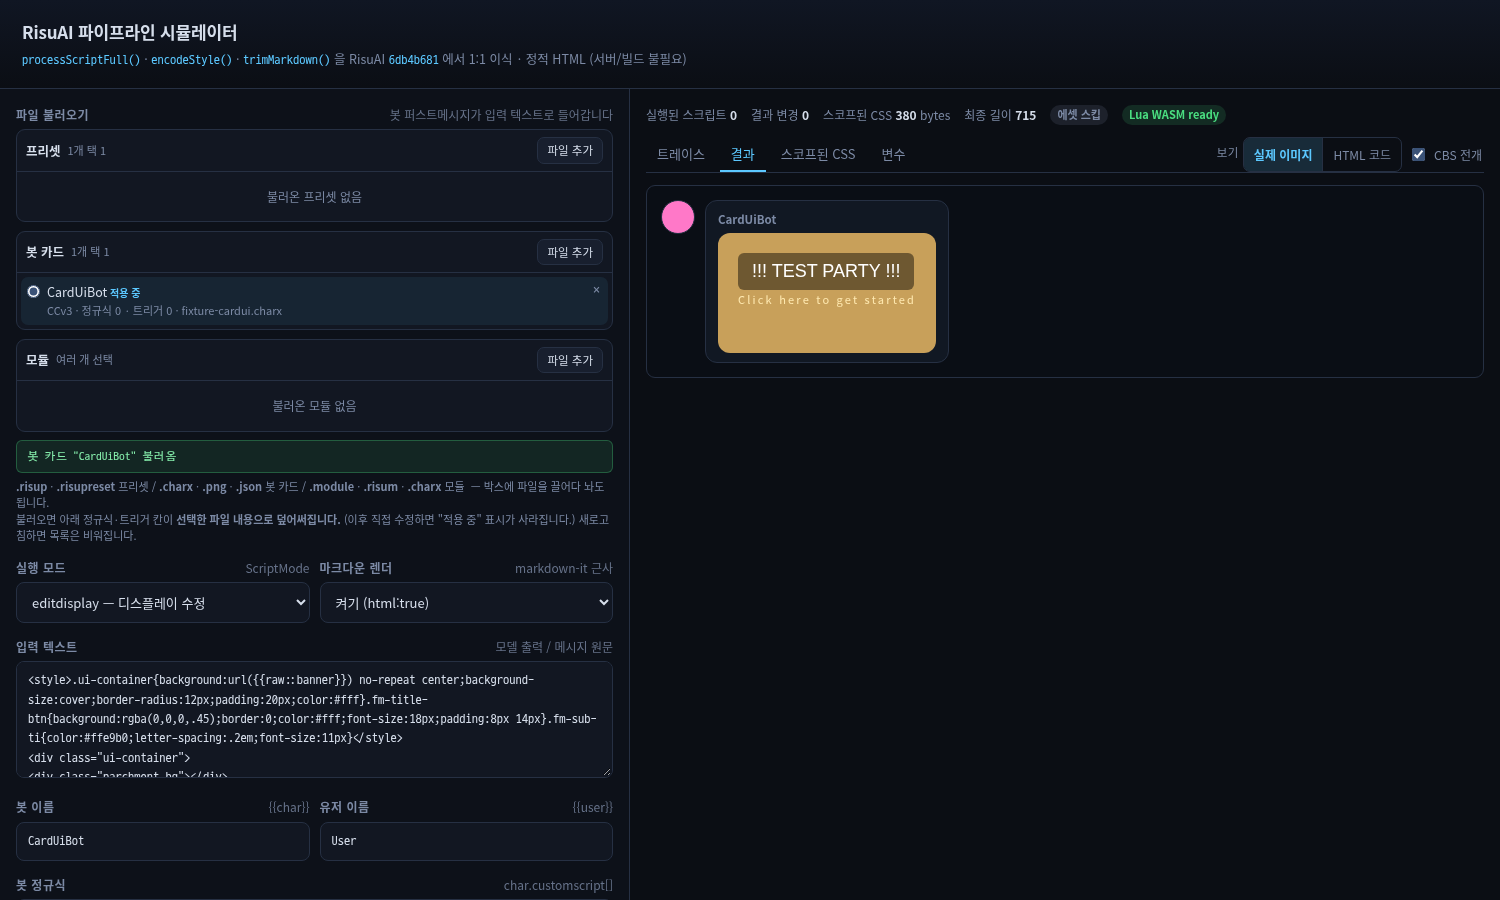
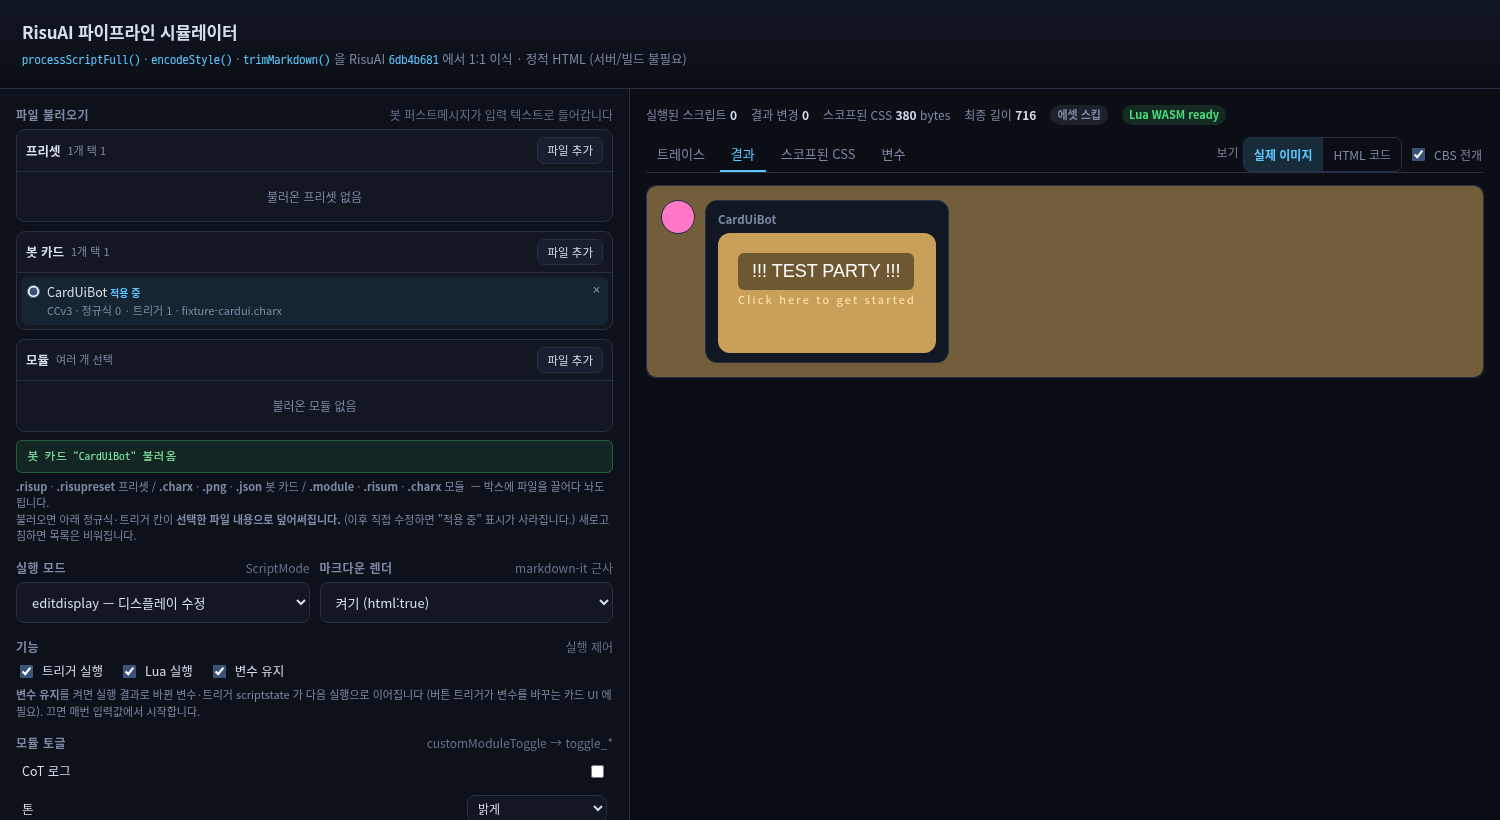
fix: 카드 배경(backgroundHTML) 레이어 렌더 — 이미지/CSS 가 안 보이던 원인
사용자 카드에서 `스코프된 CSS 0 bytes` + 이미지 안 보임. 원인은 카드 UI 봇의
스타일/배경 이미지가 **메시지 안이 아니라** character.backgroundHTML
(모듈은 module.backgroundEmbedding)에 있었기 때문이다.

RisuAI 는 이걸 메시지 뒤 레이어로 렌더링한다 (BackgroundDom.svelte):

    ParseMarkdown(risuChatParser((backgroundHTML||'') + '\n' + moduleBackgroundEmbedding), char, 'back')

## 구현

- importer: 모듈에서 backgroundEmbedding / hideIcon 추출
- index.html: #bgLayer 를 결과 영역 뒤에 두고, 캐릭터 + 체크된 모듈의 배경을 합쳐 렌더
  ('back' 모드 → 마크다운 생략, CSS 스코프·살균·에셋 해석은 수행)
- hideChatIcon / module.hideIcon 이면 아바타 숨김

## 같이 고친 버그

`renderDisplay`/`renderForDisplay` 가 markdown:false 일 때 encodeStyle 을 거치지 않은
원문을 trimMarkdown 에 넘기고 있었다. 그래서 배경(='back' 모드)처럼 마크다운을 건너뛰는
경로에서는 CSS 스코프가 전혀 걸리지 않았다 (`.bgwrap` 그대로 + 클래스만 x-risu- 로 개명).
→ 마크다운을 꺼도 인코딩된 문자열을 넘기도록 수정.

test.js 129 passed, ui-test 103 checks ALL PASS (+3: 배경 레이어/스코프/blob)

diff --git a/risu-sim/index.html b/risu-sim/index.html
@@ -138,8 +138,17 @@
   /* ---- 렌더 프리뷰 ---- */
   #previewWrap {
     border: 1px solid var(--line); border-radius: 9px; background: #0a0e15;
-    padding: 14px; overflow: auto;
+    padding: 14px; overflow: auto; position: relative;
   }
+  /* 카드 배경(backgroundHTML / module.backgroundEmbedding) —
+     RisuAI BackgroundDom.svelte 처럼 메시지 뒤 레이어로 깔린다 */
+  #bgLayer {
+    position: absolute; inset: 0; overflow: hidden;
+    border-radius: 9px; pointer-events: none;
+  }
+  #bgLayer:empty { display: none; }
+  #bgLayer img { max-width: 100%; }
+  .chatlog { position: relative; z-index: 1; }
   /* 카드 CSS 는 .chattext 하위로만 적용된다 (RisuAI 와 동일) */
   .chattext { color: var(--text); font-size: 14px; line-height: 1.7; }
 
@@ -562,6 +571,7 @@
     <div class="pane active" id="pane-trace"></div>
     <div class="pane" id="pane-preview">
       <div id="previewWrap">
+        <div id="bgLayer" class="chattext"></div>
         <div class="chatlog">
           <div class="chatrow" id="chatRow">
             <div class="avatar" id="chatAvatar">R</div>
@@ -1132,6 +1142,42 @@
     host.innerHTML = html;
   }
 
+  // 카드 배경: character.backgroundHTML + 모듈 backgroundEmbedding
+  //   RisuAI BackgroundDom.svelte: ParseMarkdown(risuChatParser(bg + '\n' + moduleBg), char, 'back')
+  //   'back' 모드라 마크다운은 건너뛰고 CSS 스코프/살균만 한다.
+  function renderBackground() {
+    var layer = $('bgLayer');
+    var parts = [];
+    var ch = findEntry('character', selected.character);
+    if (ch && ch.character && ch.character.backgroundHTML) parts.push(ch.character.backgroundHTML);
+    store.module.forEach(function (m) {
+      if (moduleChecked[m.id] && m.backgroundEmbedding) parts.push(m.backgroundEmbedding);
+    });
+    if (!parts.length) {
+      layer.innerHTML = '';
+      return;
+    }
+    var cfg = {
+      markdown: false,
+      expandCbs: true,
+      scope: '.chattext',
+      assets: (readAssetConfig() || {}).assetNames || [],
+      srcOf: assetSrcOf,
+      charName: $('charName').value,
+      userName: $('userName').value,
+      vars: live.vars,
+      globalVars: live.globalVars,
+      prevMessage: $('prevMessage').value
+    };
+    try {
+      var r = window.RisuSim.renderDisplay(parts.join('\n'), cfg);
+      layer.innerHTML = r.html;
+    } catch (e) {
+      layer.innerHTML = '';
+      console.error(e);
+    }
+  }
+
   function renderPreview(result) {
     var host = $('preview');
 
@@ -1139,6 +1185,8 @@
     var isUser = $('mode').value === 'editinput';
     var who = isUser ? ($('userName').value || 'User') : ($('charName').value || 'Char');
     $('chatRow').className = 'chatrow' + (isUser ? ' user' : '');
+    renderBackground();
+
     var av = $('chatAvatar');
     var iconUrl = isUser ? null : assetSrcOf('main');
     if (iconUrl) {
@@ -1150,6 +1198,15 @@
       av.style.backgroundImage = '';
       av.textContent = (who.trim().charAt(0) || '?').toUpperCase();
     }
+    // 카드가 아이콘 숨김을 지정하면 아바타를 감춘다 (HideIconStore)
+    var hideIcon = false;
+    var curChar = findEntry('character', selected.character);
+    if (curChar && curChar.character && curChar.character.hideChatIcon) hideIcon = true;
+    store.module.forEach(function (m) {
+      if (moduleChecked[m.id] && m.hideIcon) hideIcon = true;
+    });
+    av.style.display = hideIcon ? 'none' : '';
+
     $('chatName').textContent = who + (isUser ? ' (입력 단계)' : '');
 
     if (result.display.html) {

diff --git a/risu-sim/simulator.js b/risu-sim/simulator.js
@@ -1814,7 +1814,8 @@
         return { encoded: encodedNoDom, markdown: text, html: escapeHtml(text), css: '' };
       }
       var encoded = encodedNoDom;
-      var md = config.markdown === false ? text : renderMarkdown(encoded);
+      // markdown off 여도 encodeStyle 을 거친 문자열을 넘긴다 (안 그러면 CSS 스코프가 없다)
+      var md = config.markdown === false ? encoded : renderMarkdown(encoded);
       var html = trimMarkdown(md, ctx);
       var tpl = document.createElement('template');
       tpl.innerHTML = html;
@@ -1922,7 +1923,8 @@
     }
 
     var encoded = encodeStyle(src);
-    var md = opts.markdown === false ? src : renderMarkdown(encoded);
+    // 'back' 모드(마크다운 생략)에서도 <style> 스코프는 적용되어야 한다
+    var md = opts.markdown === false ? encoded : renderMarkdown(encoded);
 
     if (typeof document === 'undefined') {
       return { html: escapeHtml(src).replace(/\n/g, '<br>'), css: '', encoded: encoded, markdown: md };

diff --git a/risu-sim/tools/ui-test.html b/risu-sim/tools/ui-test.html
@@ -301,6 +301,12 @@
       return !!m && m[1].length > 10;
     })(), ciHtml.slice(0, 300));
 
+    // ---------- 카드 배경 (backgroundHTML) ----------
+    var bg = d.getElementById('bgLayer');
+    ok('배경 레이어에 내용이 있음', bg.innerHTML.length > 10, bg.innerHTML.slice(0, 200));
+    ok('배경 CSS 가 스코프됨', /\.chattext \.x-risu-bgwrap/.test(bg.innerHTML), bg.innerHTML.slice(0, 300));
+    ok('배경 이미지가 실제 blob URL', /url\(blob:/.test(bg.innerHTML), bg.innerHTML.slice(0, 300));
+
     // ---------- 모듈 토글 / 버튼 트리거 / 변수 편집 ----------
     // (카드 UI 봇: toggles=cot(체크박스), tone(select), note(text), 트리거 'open')
     ok('모듈 토글 패널 표시', d.getElementById('toggleField').style.display !== 'none',

diff --git a/risu-sim/tools/make-fixtures.js b/risu-sim/tools/make-fixtures.js
@@ -484,6 +484,9 @@ async function main() {
             }
           ],
           toggles: 'cot=CoT 로그\ntone=톤=select=밝게,어둡게\nnote=메모=text',
+          backgroundHTML:
+            '<style>.bgwrap{position:absolute;inset:0;background:url({{raw::banner}}) center/cover no-repeat;opacity:.55}</style>' +
+            '<div class="bgwrap"></div>',
           defaultVariables: 'view=normal\nclosed=1\nreveal=yes',
           additionalAssets: [['banner', '', 'png']]
         }

diff --git a/risu-sim/importer.js b/risu-sim/importer.js
@@ -1451,6 +1451,8 @@
       lorebook: Array.isArray(module.lorebook) ? module.lorebook : [],
       assets: assetNamesOf(module.assets),
       vars: {},
+      backgroundEmbedding: typeof module.backgroundEmbedding === 'string' ? module.backgroundEmbedding : '',
+      hideIcon: !!module.hideIcon,
       toggles: typeof module.customModuleToggle === 'string' ? module.customModuleToggle : '',
       module: module,
       warnings: warnings

diff --git a/risu-sim/README.md b/risu-sim/README.md
@@ -112,13 +112,13 @@ node risu-sim/tools/make-fixtures.js
 ### 브라우저 UI 테스트
 
 `tools/ui-test.html` 은 `index.html` 을 iframe 으로 띄운 뒤 **실제로 파일을 넣고 버튼을 눌러**
-100개 항목을 확인합니다 (`DataTransfer` 로 file input 에 주입 + 페이지 전역 드롭).
+103개 항목을 확인합니다 (`DataTransfer` 로 file input 에 주입 + 페이지 전역 드롭).
 
 ```bash
 cd risu-sim && python3 -m http.server 8901
 chromium --headless=new --no-sandbox --virtual-time-budget=60000 \
   --dump-dom "http://127.0.0.1:8901/tools/ui-test.html"
-# → <pre id="out">ALL PASS (100 checks)</pre>
+# → <pre id="out">ALL PASS (103 checks)</pre>
 ```
 
 ## 보기 모드 — 실제 이미지 / HTML 코드
@@ -183,6 +183,25 @@ caption / divider             → 라벨 / 구분선
 | **트리거 실행** | `runTrigger` 5곳을 모두 건너뛰고 트레이스에 "사용 안 함" 표시 |
 | **Lua 실행** | `listenEdit` 훅을 실행하지 않음 |
 | **변수 유지** | 매 실행을 입력값에서 시작 (트리거가 바꾼 변수가 이어지지 않음) |
+
+## 카드 배경 (backgroundHTML)
+
+카드 UI 봇의 배경 이미지·CSS는 **메시지 안이 아니라** `character.backgroundHTML` /
+`module.backgroundEmbedding` 에 있습니다. RisuAI는 이걸 메시지 뒤 레이어로 렌더링합니다
+(`BackgroundDom.svelte`).
+
+```svelte
+<ParseMarkdown(risuChatParser((backgroundHTML || '') + '\n' + moduleBackgroundEmbedding), char, 'back') />
+```
+
+시뮬레이터도 캐릭터 + 체크된 모듈의 배경을 합쳐 결과 영역 뒤에 깔아 줍니다.
+
+- `'back'` 모드라 마크다운은 건너뛰고 **CSS 스코프·살균만** 적용합니다
+- `{{raw::x}}` / `{{image::x}}` 같은 에셋 태그도 여기서 해석됩니다
+- `hideChatIcon` / 모듈 `hideIcon` 이 켜져 있으면 아바타를 숨깁니다
+
+> `markdown` 을 꺼도 `<style>` 은 `encodeStyle` 을 거친 상태로 넘겨야 스코프가 걸립니다.
+> (이전에는 마크다운 off 일 때 원문을 그대로 넘겨서 CSS 가 스코프되지 않았습니다)
 
 ## 에셋 이미지
 

diff --git a/README.md b/README.md
@@ -13,6 +13,7 @@ RisuAI 의 **메시지 처리 파이프라인**을 코드 레벨로 분석하고
 - **동적 에셋** — OpenAI 호환 `/embeddings` 로 에셋 이름 유사도 매칭
 - **파일 불러오기** — `.risup` 프리셋 / `.charx` 봇 카드 / `.module` 모듈을 그대로 읽어서 적용
 - **트리거 · 변수 · 토글** — `risu-trigger` 버튼 실행, 변수 편집기, `customModuleToggle` 스위치
+- **카드 배경** — `backgroundHTML` / `module.backgroundEmbedding` 을 메시지 뒤 레이어로
 - **보기 모드 2종** — 결과를 **실제 이미지**(카드 CSS·에셋 적용) 또는 **HTML 코드**(최종 소스)로
 - **After 렌더** — 트레이스의 각 단계 결과도 같은 보기 모드로 표시
 
@@ -63,7 +64,7 @@ python3 -m http.server 8080
 cd risu-sim && node test.js
 # → 129 passed, 0 failed
 
-# 브라우저 UI 통합 테스트 (파일 주입 + 클릭 100개 항목)
+# 브라우저 UI 통합 테스트 (파일 주입 + 클릭 103개 항목)
 python3 -m http.server 8901 &
 chromium --headless=new --no-sandbox --virtual-time-budget=60000 \
   --dump-dom "http://127.0.0.1:8901/tools/ui-test.html"
